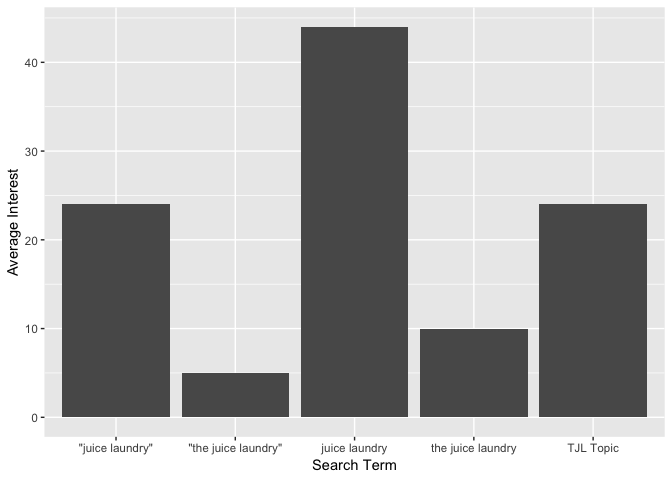
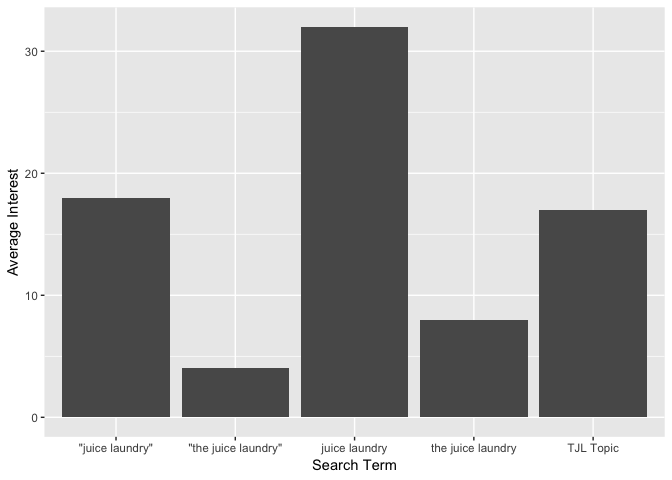
true match of ui

diff --git a/google-trends-guide.md b/google-trends-guide.md
@@ -2,7 +2,6 @@ The Google Trends R Guide
 ================
 A manual for *intelligent*, *reproducible*, and *programmatic* analysis of *Google Trends* search interest over time with the `gtrendsR` package
 
-### Table of Contents
 -   [Overview](#overview)
 -   [Understanding *Google Trends*](#understanding-google-trends)
 -   [Navigating the User Interface (UI)](#navigating-the-user-interface-ui)
@@ -131,10 +130,10 @@ end_date <- "2018-12-31"
 country <- "US"
 time_span <- str_c(start_date, end_date, sep = " ")
 topic_url <- "%2Fg%2F12m9gwg0k"
-search_terms <- c("the juice laundry", 
-                  '"the juice laundry"', 
+search_terms <- c('"juice laundry"', 
+                  '"the juice laundry"',
                   "juice laundry",
-                  '"juice laundry"', 
+                  "the juice laundry",
                   URLdecode(topic_url))
 ```
 
@@ -353,11 +352,11 @@ avg_trend
     ## # A tibble: 5 x 2
     ##   search_term             avg_interest
     ##   <chr>                          <dbl>
-    ## 1 "\"juice laundry\""               24
-    ## 2 "\"the juice laundry\""            5
-    ## 3 juice laundry                     44
-    ## 4 the juice laundry                 10
-    ## 5 TJL Topic                         24
+    ## 1 "\"juice laundry\""               18
+    ## 2 "\"the juice laundry\""            4
+    ## 3 juice laundry                     32
+    ## 4 the juice laundry                  8
+    ## 5 TJL Topic                         17
 
 Construct a draft for the bar graph. Remember that bar graphs with y variables specified must clarify that `stat = 'identity'`.
 
@@ -560,7 +559,7 @@ I have repeated the `gtrendsR` process but this time with just *"juice laundry"*
 
 You can find this web UI at the following link:
 
-    ## [1] "https://trends.google.com/trends/explore?date=2016-10-09%202018-12-31&geo=US&q=%22juice%20laundry%22,%22corner%20juice%22"
+    ## [1] "https://trends.google.com/trends/explore?date=2016-10-09%202018-12-31&geo=US&q=%22corner%20juice%22,%22juice%20laundry%22"
 
 ------------------------------------------------------------------------
 
